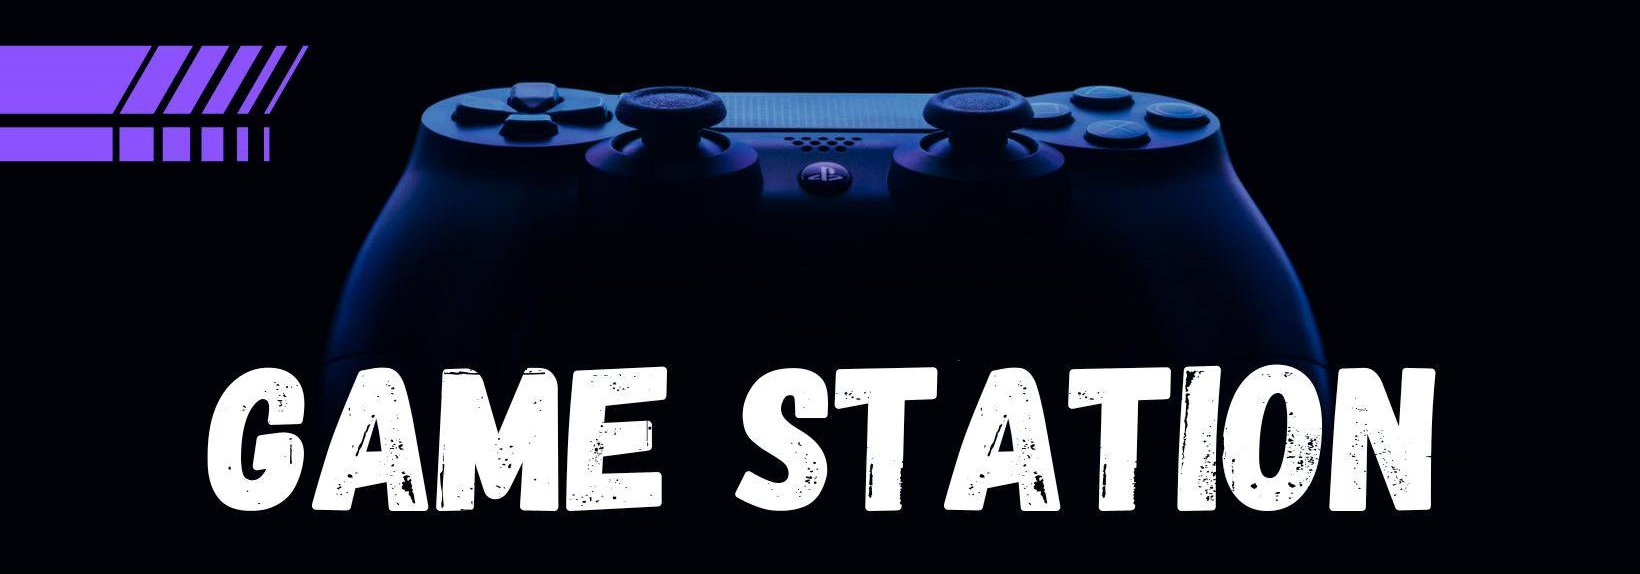
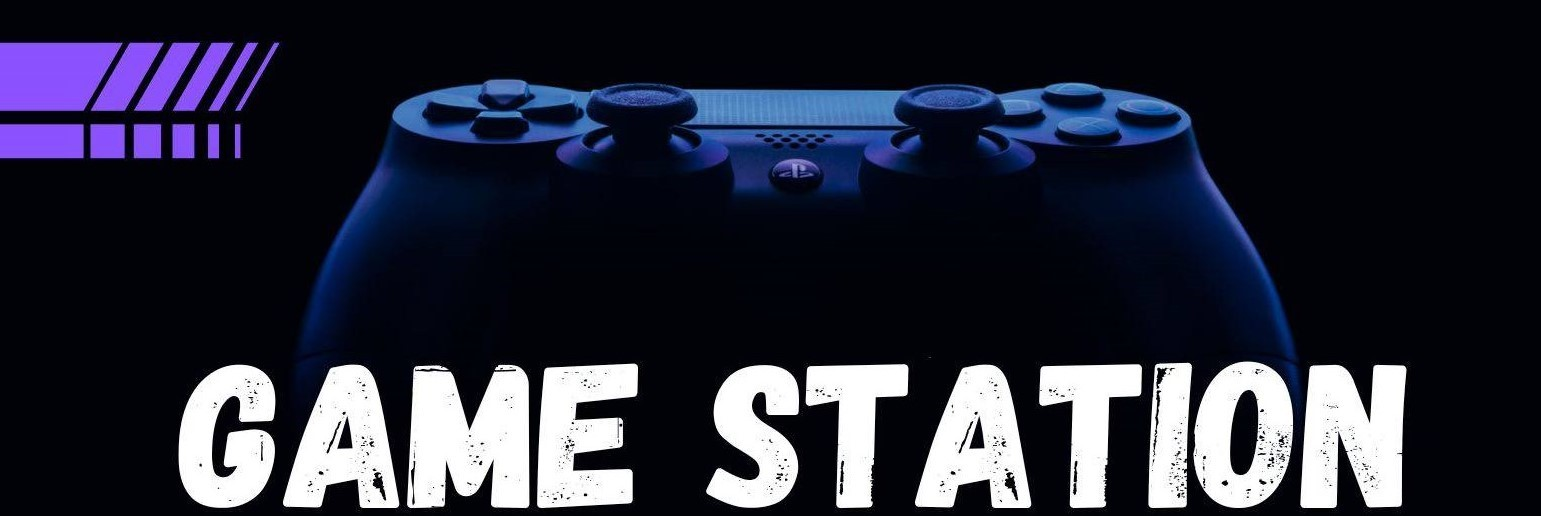
new !!!!!

Changed region(s): [[0.0934, 0.124, 0.9345, 0.9922], [0.0, 0.062, 0.1869, 0.3101]]

diff --git a/GameStation/templates/base.html b/GameStation/templates/base.html
@@ -59,12 +59,15 @@
     .hero-image {
       width: 100%;
       height: auto;
+        object-fit: cover;
       display: block;
+        margin: 0 auto;
+        padding: 0 auto;
     }
 
     .tagline, .section-title {
       text-align: center;
-      margin: 0 auto;
+      margin: 0.5rem 0;
       font-size: 2rem;
       font-weight: 700;
     }
@@ -83,7 +86,8 @@
     }
 
     .game-card {
-      width: 380px;
+      width: 2000px;
+        height: 100px;
       background-color: BlueViolet;
       margin: 0 1rem;
       border-radius: 8px;
